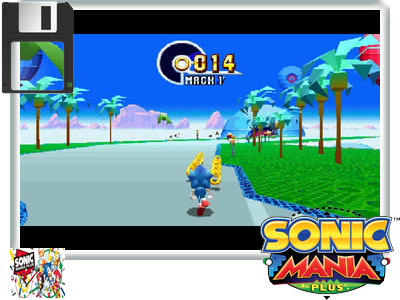
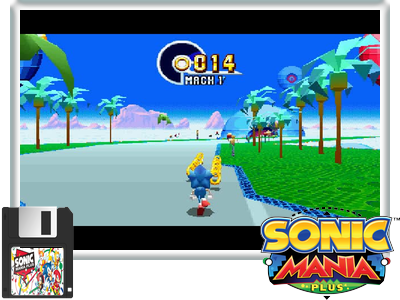
Fix template position

diff --git a/mixv1.py b/mixv1.py
@@ -1,6 +1,6 @@
 import os
 import configparser
-from PIL import Image, ImageDraw, ImageFilter, ImageOps
+from PIL import Image, ImageDraw, ImageFilter
 from colorthief import ColorThief
 
 def get_dominant_color(image_path):
@@ -140,6 +140,7 @@ def create_mix_image(config):
 
             if template_image:
                 template_size = tuple(map(int, config.get('Template', 'size').split(',')))
+                template_position = tuple(map(int, config.get('Template', 'position').split(',')))  # Get position from config
                 template_image = template_image.resize(template_size, Image.Resampling.LANCZOS)
             else:
                 print(f"Warning: Template image missing for {base_name}")
@@ -164,7 +165,7 @@ def create_mix_image(config):
                 mix_image.paste(thumb_image, thumb_position, thumb_image) 
 
             if template_image:
-                template_position = (0, 0)
+                template_position = bounds_check(template_position, template_image.size, canvas_size)
                 mix_image.paste(template_image, template_position, template_image)
 
             # Save the resulting image with compression
